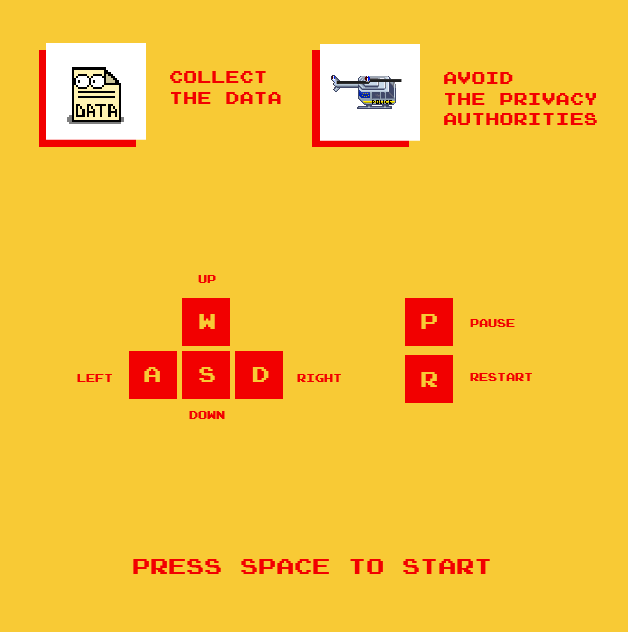
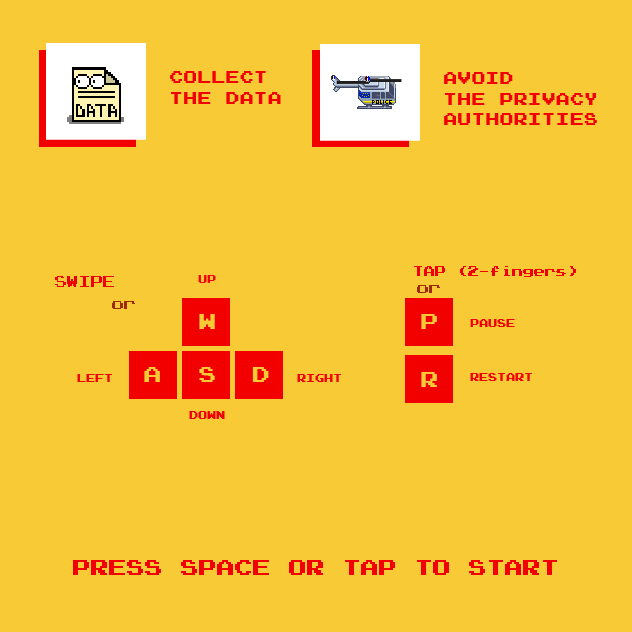
abstract controllers input and add touch controls (#5)
* extract controller class

* replace keybinding in game with new controller

* fix binding issue

* add touch controller

* document touch controls in readme

* update screens for touch controls

diff --git a/src/models/Controller.ts b/src/models/Controller.ts
@@ -1,0 +1,188 @@
+export enum ControllerInput {
+  up = 'up',
+  right = 'right',
+  down = 'down',
+  left = 'left',
+}
+
+export type ControllerHooks = {
+  next: VoidFunction,
+  pause: VoidFunction,
+  restart: VoidFunction,
+  victory: VoidFunction,
+  stats: VoidFunction,
+  enterDebugMode: VoidFunction,
+  exitDebugMode: VoidFunction,
+}
+
+export type ActiveControllerInputs = {
+  [i in ControllerInput]: boolean;
+};
+
+export class Controller {
+  activeInputs: ActiveControllerInputs = Controller.defaultActiveInputs();
+  hooks: ControllerHooks = {
+    next() {},
+    pause() {},
+    restart() {},
+    victory() {},
+    stats() {},
+    enterDebugMode() {},
+    exitDebugMode() {},
+  }
+
+  constructor(hooks: ControllerHooks) {
+    this.hooks = hooks;
+  }
+  
+  static defaultActiveInputs(): ActiveControllerInputs {
+    return {
+      up: false,
+      right: false,
+      down: false,
+      left: false,
+    };
+  }
+}
+
+export class KeyboardController extends Controller {
+  pressedKeys: Set<string> = new Set()
+
+  constructor(document: Document, hooks: ControllerHooks) {
+    super(hooks);
+    document.body.addEventListener('keydown', (e) => {
+      if (e.repeat) {
+        return;
+      }
+      if (['ArrowUp', 'ArrowRight', 'ArrowDown', 'ArrowLeft', 'w', 'a', 's', 'd'].includes(e.key)) {
+        this.pressedKeys.add(e.key)
+        this.updateActiveInputs()
+      }
+      if (e.key === 'm') {
+        this.hooks.enterDebugMode();
+      }
+    });
+
+    document.body.addEventListener('keyup', (e) => {
+      this.pressedKeys.delete(e.key)
+      this.updateActiveInputs()
+      if (e.key === 'm') {
+        this.hooks.exitDebugMode();
+      }
+      if (e.key === 'p') {
+        this.hooks.pause();
+      }
+      if (e.key === 'r') {
+        this.hooks.restart();
+      }
+      if (e.key === ' ') {
+        this.hooks.next();
+      }
+      if (e.key === 'v') {
+        this.hooks.victory();
+      }
+      if (e.key === 'g') {
+        this.hooks.stats();
+      }
+    });
+  }
+
+  private updateActiveInputs() {
+    // needed to allow "merging" key inputs
+    this.activeInputs.up = this.pressedKeys.has('w') || this.pressedKeys.has('ArrowUp')
+    this.activeInputs.right = this.pressedKeys.has('d') || this.pressedKeys.has('ArrowRight')
+    this.activeInputs.down = this.pressedKeys.has('s') || this.pressedKeys.has('ArrowDown')
+    this.activeInputs.left = this.pressedKeys.has('a') || this.pressedKeys.has('ArrowLeft')
+  }
+}
+
+class TouchController extends Controller {
+  touchOriginX?: number;
+  touchOriginY?: number;
+  
+  constructor(document: Document, hooks: ControllerHooks) {
+    super(hooks)
+    const $touchElement = document.body
+    $touchElement.style.touchAction = 'pinch-zoom'; // only keeps double-finger standard interactions with the browser
+    $touchElement.addEventListener('touchstart', this.handleTouchStart.bind(this), false);
+    $touchElement.addEventListener('touchmove', this.handleTouchMove.bind(this), false);
+    $touchElement.addEventListener('touchend', this.handleTouchEnd.bind(this), false);
+  }
+
+  handleTouchStart(e: TouchEvent) {
+    e.preventDefault();
+    if (e.touches.length == 1) {
+      this.touchOriginX = e.touches[0].clientX;
+      this.touchOriginY = e.touches[0].clientY;
+    } else if (e.touches.length == 2) {
+      this.hooks.pause();
+    }
+  }
+
+  handleTouchMove(e: TouchEvent) {
+    e.preventDefault();
+    if (e.touches.length == 1 && typeof this.touchOriginX == 'number' && typeof this.touchOriginY == 'number') {
+      const destX = e.touches[0].clientX;
+      const destY = e.touches[0].clientY;
+      const deltaX = destX - this.touchOriginX;
+      const deltaY = destY - this.touchOriginY;
+
+      // Avoid too sensitive diagonal movements, by dividing the touch space into 8 slices (up, down, left, right + diagonals).
+      // Allow diagonal move if touch is on the diagonal slices. 
+      // Apply only horizontal/vertical move if touch is on the orthogonal slices. These are narrower
+      const ratioXY = Math.abs(deltaX/deltaY)
+      const mostlyHorizontally = ratioXY > 3;
+      const mostlyVertically = ratioXY < 0.33;
+      
+      const moveThresholdPx = 10
+      this.activeInputs.up = !mostlyHorizontally && deltaY < -moveThresholdPx;
+      this.activeInputs.down = !mostlyHorizontally && deltaY > moveThresholdPx;
+      this.activeInputs.right = !mostlyVertically && deltaX > moveThresholdPx;
+      this.activeInputs.left = !mostlyVertically && deltaX < -moveThresholdPx;  
+    }
+  }
+
+  handleTouchEnd(e: TouchEvent) {
+    e.preventDefault();
+    if (e.touches.length == 0) {
+      this.hooks.next();
+      this.touchOriginX = undefined;
+      this.touchOriginY = undefined;
+      this.activeInputs.up = false;
+      this.activeInputs.right = false;
+      this.activeInputs.down = false;
+      this.activeInputs.left = false;
+    }
+  }
+}
+
+export class Controllers {
+  static initControllers(document: Document, hooks: ControllerHooks): Controller[] {
+    const controllers = [
+      new KeyboardController(document, hooks),
+      new TouchController(document, hooks)
+    ]
+    return controllers
+  }
+
+  static combineActiveInputs(controllers: Controller[]): ActiveControllerInputs {
+    const combined: ActiveControllerInputs = {
+      up: false,
+      right: false,
+      down: false,
+      left: false,
+    }
+    
+    if (controllers?.length) {
+      controllers.forEach(c => {
+        Object.entries(c.activeInputs)
+          .filter(([_, isActive]) => isActive)
+          .forEach(([input, _]) => {
+            combined[input as ControllerInput] = true
+          })
+      })
+    }
+
+    return combined
+  }
+}

diff --git a/src/models/Game.ts b/src/models/Game.ts
@@ -3,8 +3,10 @@ import { Direction } from './core';
 import { Character } from './Character';
 import { Cell } from './Cell';
 import { Maze } from './Maze';
+import { ActiveControllerInputs, Controller, Controllers } from './Controller'
 import { Sprite, orientationToSpriteRow } from '../util/sprite';
 import { promiseLoadedImage, makeImage } from "../util/image";
+
 
 export class Game {
   maze!: Maze;
@@ -19,7 +21,7 @@ export class Game {
   private canvas: HTMLCanvasElement;
   private ctx!: CanvasRenderingContext2D;
   private _screen?: GameScreen;
-  private keys: boolean[] = [];
+  private controllers: Controller[] = [];
 
   // images
   private startScreenImg!: HTMLImageElement;
@@ -45,6 +47,10 @@ export class Game {
   constructor(canvas: HTMLCanvasElement, onTick: (points: number, totalPoints: number, elapsedSeconds: number) => void) {
     this.onTick = onTick;
     this.canvas = canvas;
+  }
+
+  get activeInputs(): ActiveControllerInputs {
+    return Controllers.combineActiveInputs(this.controllers)
   }
 
   get playTime() {
@@ -85,50 +91,25 @@ export class Game {
 
   async init() {
     this.maze = new Maze(ASCII_MAZE_LAYOUT, CELL_SIZE);
-    this.keys = [];
     this.canvas.width = this.maze.width;
     this.canvas.height = this.maze.height;
     this.ctx = this.canvas.getContext('2d') as CanvasRenderingContext2D;
 
-    document.body.addEventListener('keydown', (e) => {
-      if (e.repeat) {
-        return;
-      }
-      if (['ArrowUp', 'ArrowRight', 'ArrowDown', 'ArrowLeft', 'w', 'a', 's', 'd'].indexOf(e.key) > -1) {
-        this.keys[e.keyCode] = true;
-      }
-      // DEBUG (m)ode => activate
-      if (e.key === 'm') {
+    this.controllers = Controllers.initControllers(document, {
+      next: () => this.nextScreen(),
+      pause: () => this.togglePausedScreen(),
+      restart: () => this.restart(),
+      victory: () => this.gameWon(),
+      stats: () => console.log('===== GAME STATUS =====', this),
+      enterDebugMode: () => {
         this.debugMode = true;
-        console.log('DEBUG (m)ode: on');
+        console.log('DEBUG mode: ON');
         this.debugLog("Logger: that's right!");
-      }
-    });
-
-    document.body.addEventListener('keyup', (e) => {
-      this.keys[e.keyCode] = false;
-      if (e.key === 'p') {
-        this.togglePausedScreen();
-      }
-      if (e.key === 'r') {
-        this.restart();
-      }
-      if (e.key === ' ') {
-        this.nextScreen();
-      }
-      if (e.key === 'v') {
-        this.gameWon();
-      }
-
-      // DEBUG (m)ode => deactivate
-      if (e.key === 'm') {
+      },
+      exitDebugMode: () => {
         this.debugMode = false;
-        console.log('DEBUG (m)ode: off');
-      }
-      // DEBUG print full game status
-      if (e.key === 'g') {
-        console.log('==========GAME STATUS==========', this);
-      }
+        console.log('DEBUG mode: off');
+      },
     });
 
     // Preload all images for smoother transitions
@@ -316,7 +297,7 @@ export class Game {
     }
 
     // Set player velocity
-    this.setPlayerIntent(this.player);
+    this.setPlayerIntent(this.player, this.activeInputs);
     this.applyFriction(this.player);
 
     // Move preys
@@ -565,28 +546,21 @@ export class Game {
     }
   }
 
-  private setPlayerIntent(player: Character) {
-    const command = {
-        up: this.keys[38] || this.keys[87],
-        down: this.keys[40] || this.keys[83],
-        left: this.keys[37] || this.keys[65],
-        right: this.keys[39] || this.keys[68],
-    }
-
+  private setPlayerIntent(player: Character, activeInputs: ActiveControllerInputs) {
     if (Math.abs(player.velY) < player.speed) {
-      if (command.up) {
+      if (activeInputs.up) {
         player.velY--;
       }
-      if (command.down) {
+      if (activeInputs.down) {
         player.velY++;
       }
     }
 
     if (Math.abs(player.velX) < player.speed) {
-      if (command.left) {
+      if (activeInputs.left) {
         player.velX--;
       }
-      if (command.right) {
+      if (activeInputs.right) {
         player.velX++;
       }
     }    

diff --git a/README.md b/README.md
@@ -24,6 +24,11 @@ Personal data are scattered everywhere. Gather them all without undue delay and 
                └─────────────────┘             └───┘
 ```
 
+☝ Controls:
+ * swipe (and hold) -> move
+ * tap -> start
+ * tap (2-finger) -> pause
+
 ## Implementation
 
 This game was built from the ground up using just Typescript.
@@ -80,8 +85,7 @@ Example of these visual aids are:
 
 ## Known Limitations
 
-This game relies on keyboard input, and is therefore not mobile friendly.
-It would work by adding some touch input overlay.
+This game is mostly mobile friendly, but some features rely on keyboard input (like restarting & debug mode).
 
 It is also probably not working on some browsers: I targeted mainly Chrome and Firefox.
 
@@ -94,5 +98,7 @@ The idea of the game and its core mechanics, especially on how to optimize prey 
 The start screens were created in collaboration with [nowiknowicki](https://www.behance.net/nowiknowicki)
 
 The [helicopter sprite](img/sprites/authority.png) is based on this [sprite](https://www.pokecommunity.com/showthread.php?t=384499) by [godofsalad](https://www.pokecommunity.com/member.php?u=642968)
+
+Kudos to [codeman38](http://www.zone38.net) for the pixelated font "Press Start".
 
 All pixel art for the sprites was created using [Piskel](https://www.piskelapp.com/)
